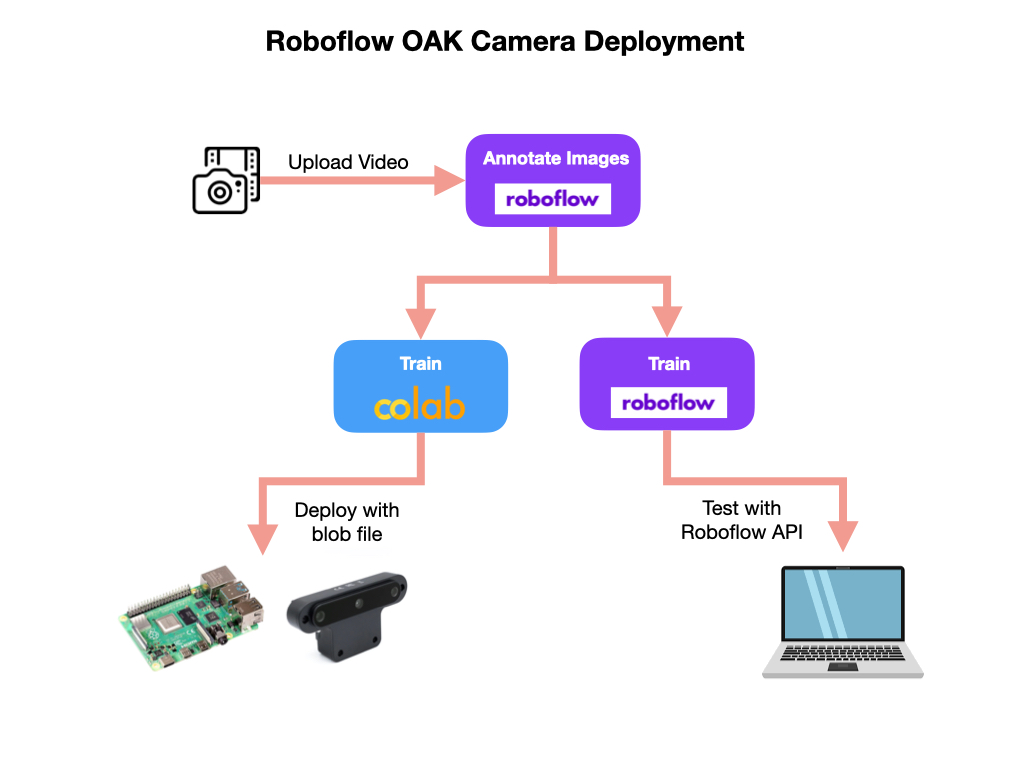
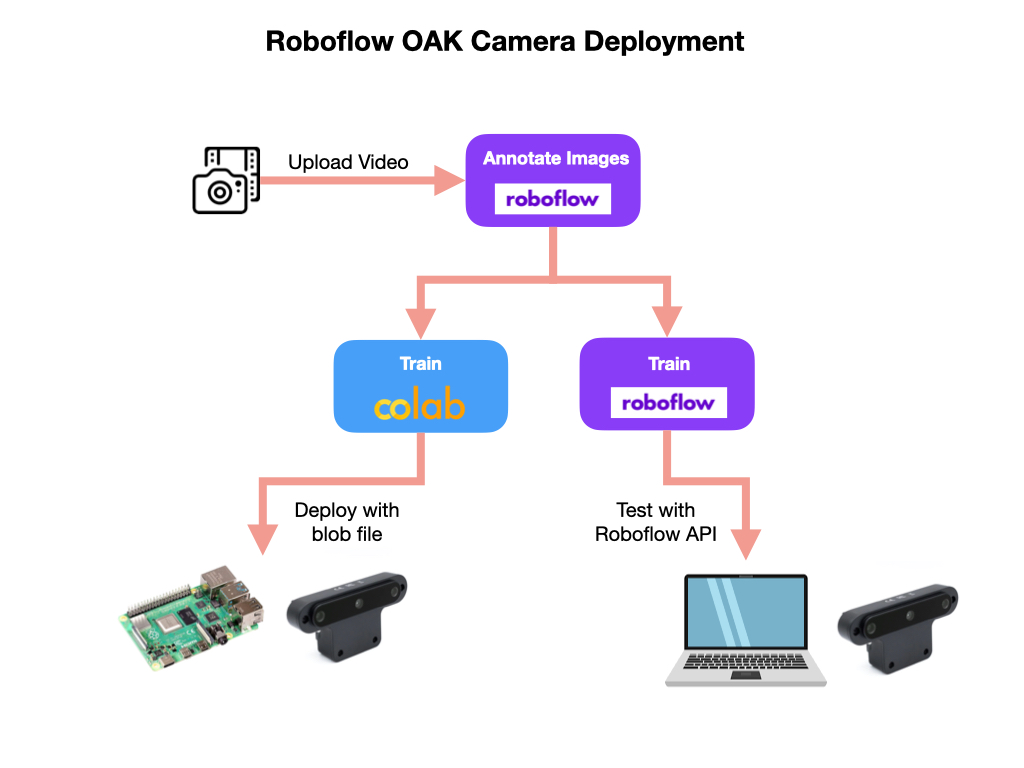
Review

Changed region(s): [[0.5625, 0.5938, 0.9375, 0.9062]]

diff --git a/docs/MachineLearning/MLIndex.md b/docs/MachineLearning/MLIndex.md
@@ -1,23 +1,39 @@
 # Introduction to Machine Learning
-**Machine Learning** is a powerful tool that can accomplish computational tasks that traditional algorithms cannot. In the FIRST Robotics Competition, machine learning can be used to detect game pieces, scoring locations, or even other robots.  For a good overview of Machine Learning see Brendan Fortuner's [Machine Learning Glossary](https://ml-cheatsheet.readthedocs.io/en/latest/nn_concepts.html).  Also see an [Introduction to Machine Learning](https://docs.wpilib.org/en/stable/docs/software/wpilib-tools/axon/machine-learning.html) in the FRC Documentation. 
+**Machine Learning** is a powerful tool that can accomplish computational tasks that traditional algorithms cannot. In the FIRST Robotics Competition, machine learning can be used to detect game pieces, scoring locations, or even other robots.  In order to implement a machine learning model on an FRC robot you don't need to know a lot about the science behind it, but if you'd like to learn more a good starting point is Brendan Fortuner's [Machine Learning Glossary](https://ml-cheatsheet.readthedocs.io/en/latest/nn_concepts.html).  Also see an [Introduction to Machine Learning](https://docs.wpilib.org/en/stable/docs/software/wpilib-tools/axon/machine-learning.html) in the FRC Documentation. 
 
-In order to implement Machine Learning we generally follow a process of collecting images, annotating the images, preprocessing and augmenting the images, training a model, deploying the trained model on the robot, and finally using the trained model to control the robot.  This is an iterative process that can be continued until we have a satisfactory outcome.  
+In order to implement a Machine Learning application we need to setup an efficient workflow. Creating a successful machine learning application is an iterative process that is continued until you have a satisfactory outcome.  This workflow will generally conform to the following set of processes:
+
+- Collect and load images into an application for annotation.  The collection process will normally involve taking a video of the objects that you are interested in tracking.
+
+- Annotating the images, which involves drawing bounding boxes around objects of interest and labelling them.
+
+- Preprocessing and augmenting the images to increase the amount and variability of the training dataset.  
+
+- Training a deep learning model and validating it against a validation dataset. Two commonly used deep learning models for object detection are *MobileNet* and *Yolo*.
+
+- Placing the trained model in an environment where it can be easily tested using a camera stream or set of images.  
+
+- Once we are satisfied with how the model performs it can be deployed to an edge device such as a robot.  The model is converted to format that has a small memory footprint that runs efficiently on the edge device.
+
+- Finally we can use data coming from the trained model to control the robot.  
+
 ![Machine Learning Process](../images/FRCMachineLearning/FRCMachineLearning.001.jpeg)
 
-There are multiple ways to carry out the machine learning process.  FRC has a tool called **Axon** that implements the training, testing, and exporting of the machine learning model.  See an [Introduction to Axon](https://docs.wpilib.org/en/stable/docs/software/wpilib-tools/axon/introduction.html) in the FRC Documentation.  The model is then deployed to a Raspberry Pi using a [Coral USB Accelerator](https://coral.ai/products/accelerator) for real-time processing of the images. 
+There are multiple ways to carry out the machine learning process.  FRC has a tool called [Axon](https://docs.wpilib.org/en/stable/docs/software/wpilib-tools/axon/introduction.html) that implements the training, testing, and exporting of the machine learning model. The model is then deployed to a Raspberry Pi using a [Coral USB Accelerator](https://coral.ai/products/accelerator) or a Jetson for real-time processing of the images. 
 
-An alternative process, and the one that will be documented in the next sections, is to use the [Roboflow](https://roboflow.com) platform to upload video, annotate, preprocess, and augment the images in preparation for training. While we are refining the model it can be also be trained and validated on Roboflow. However, in order to deploy the model for competition it must be trained in [Google Colab](https://colab.research.google.com/?utm_source=scs-index).
+An alternative process, and the one that will be documented in the next sections, is to use the [Roboflow](https://roboflow.com) platform to upload video, annotate, preprocess, and augment the images in preparation for training. Once we have a good dataset of prepared images we'll use it to train a deep learning model.  For our example we'll a [Yolo](https://pjreddie.com/darknet/yolo/) model for training.  
 
-The trained model is deployed to a Raspberry Pi using an OAK-D camera provided by [Luxonis](https://www.luxonis.com).  The OAK-D camera has an onboard Tensor Processing Unit (TPU) that runs the model and processes the images before sending it to the Raspberry Pi.
+We'll be using [Google Colab](https://colab.research.google.com/?utm_source=scs-index) to train the model.  The trained model can then be moved to a PC or your final deployment platform for testing.  At the end of the training process this document details the use of an [OAK-D Stereo Depth Camera](https://shop.luxonis.com/products/1098obcenclosure)  connected to a Raspberry Pi as our deployment platform.  This camera can be connected to your PC while testing.  The OAK-D camera has an onboard Tensor Processing Unit (TPU) that runs the model and processes the images before sending it to the Raspberry Pi. Most of these steps are still applicable if you have a different camera.  The only change will be the final model file format used for deployment.  For instance, if you're using a Raspberry Pi with a *Coral USB Accelerator* you will use a *Tensorflow Lite* model format.
 
 ![Roboflow OAK-D Process](../images/FRCMachineLearning/FRCMachineLearning.002.jpeg)
 
 The deployment process for *Roboflow*, *Google Colab*, with the *OAK-D Camera* and *Raspberry Pi* will be documented in the following sections.
 
 
-- [Preparing Images](MLProcessImages.md)
-- [Training the Model](MLTraining.md)
-- [Deploying the Model](MLDeployment.md)
+- [Preparing the Image Dataset](MLProcessImages.md)
+- [Training and Validating the Model](MLTraining.md)
+- [Testing the Model](MLDesktopTesting.md)
+- [Deploying the Model to the Robot](MLDeployment.md)
 - [Machine Learning Based Control](MLControl.md)
 
 ## References
@@ -31,4 +47,4 @@ The deployment process for *Roboflow*, *Google Colab*, with the *OAK-D Camera* a
 
 - OAK-D Camera [Luxonis](https://www.luxonis.com)
 
-- Zebra Labs [ZebraVision 7.0](https://drive.google.com/file/d/1a6TjJwKlH-76vkAthQSiNZgopLMd_BW_/view)
+<!-- - Zebra Labs [ZebraVision 7.0](https://drive.google.com/file/d/1a6TjJwKlH-76vkAthQSiNZgopLMd_BW_/view) -->

diff --git a/docs/MachineLearning/MLTraining.md b/docs/MachineLearning/MLTraining.md
@@ -1,21 +1,23 @@
-# Training a Model
-Once you have a dataset of the images that you're happy with it can be used to train and validate a model. For the training and validation process you have two options.  You can train and validate in *Roboflow*, or you can export it for training and validation in *Google Colab*.  The process of validating an image with a model is called *Inference*. In order to deploy a model to the competition robot it must be trained using Colab since you'll need to have a model file that can be used offline.
+# Training and Validating the Model
+Once you have a dataset of the images that you're happy with it can be used to train and validate a model. For the training and validation process you have two options.  You can train and validate in *Roboflow* or you can export it for training and validation in *Google Colab*.  In order to deploy a model to the competition robot it must be trained using Colab since you'll need to have a model file that can be used offline.  However, during the testing phase you can also use Roboflow.
 
 ## Training Model in Roboflow
-To train a model in Roboflow watch the [Training](https://www.youtube.com/watch?v=njWwmKLWVyE)  YouTube Video and read the [Train](https://docs.roboflow.com/train) documentation. Once you have a trained model it can be validated directly on the Roboflow site. 
+To train a model in Roboflow watch the [Training](https://www.youtube.com/watch?v=njWwmKLWVyE)  YouTube Video and read the [Train](https://docs.roboflow.com/train) documentation. Once you have a trained model it can be validated directly on the Roboflow site by uploading a test image. It's very important that the test image was never used in the training or validation set.  
 
 To validate, go to the **Versions** section of your Roboflow account, select an image of the objects that you want to run inference on and upload it to the site.  If your model is properly trained you should see bounding boxes around the objects of interest.
 
 ![Test API](../images/FRCMachineLearning/FRCMachineLearning.011.jpeg)
 
+See the next section on [Testing the Model](MLDesktopTesting.md) for more testing options.
+
 ## Training Model in Colab
-This process will show how to train a [Yolo](https://pjreddie.com/darknet/yolo/) model for deployment on an [Luxonis OAK](https://shop.luxonis.com/collections/usb) device.  The training process in Google Colab follows these steps.
+This process will show how to train a [Yolo](https://pjreddie.com/darknet/yolo/) model for deployment on a Raspberry Pi with a connected [Luxonis OAK](https://shop.luxonis.com/collections/usb) camera.   The training process in Google Colab follows these steps.
 
 ![Training](../images/FRCMachineLearning/FRCMachineLearning.010.jpeg)
 
 Make sure that you're familiar with how Colab works. For a quick introduction watch this [Google Colab](https://www.youtube.com/watch?v=RLYoEyIHL6A&ab_channel=CodewithDogaOzgon) YouTube video. 
 
-Use the [Roboflow-YOLOv3-tiny-Darknet-to-OAK.ipynb](https://colab.research.google.com/drive/1Sc6B-clNJZ3OBxCxIoddhLFxIYoJJzRT#scrollTo=JlPEcD7UkE4Q) Colab Notebook to train the model.  Once the Colab notebook loads save a copy of the it in your Google Drive.  When you execute the first cell it will allocate a GPU for you. You should try and complete all of the training steps in a single session.  If you page is inactive for more than an hour the session will disconnect.
+Use the [Roboflow-YOLOv3-tiny-Darknet-to-OAK.ipynb](https://colab.research.google.com/drive/1Sc6B-clNJZ3OBxCxIoddhLFxIYoJJzRT#scrollTo=JlPEcD7UkE4Q) Colab Notebook to train the model.  Once the Colab notebook loads save a copy of the it in your Google Drive.  When you execute the first cell it will allocate a GPU for you. You should try and complete all of the training steps in a single session.  If your page is inactive for more than an hour the session will disconnect and you will have to start over.  Once you have the Colab notebook loaded it will guide you through the following steps to train, validate, and export the model.
 
 ### Setup the Colab Notebook for Training
 
@@ -48,13 +50,13 @@ The weights file for YoloV4-tiny is downloaded in order to generate a custom tra
 ### Train Detector Model
 The next step is to train a custom YOLOv4 object detector.
 
-As the training progresses files with the suffix `.weights` will show up in the `darknet/backup` directory.  As soon as you have a file with a partial name of `_best.weights` you can stop the training process.
+As the training progresses files with the suffix `.weights` will show up in the `darknet/backup` directory.  As soon as you have a file with a name of `<dataset>_best.weights` you can stop the training process.
 
 ### Run Inference to Test the Model
-This step will load the YOLOv4 trained weights and make inference on test images.  
+The process of validating an image with a model is called *Inference*. This step will load the YOLOv4 trained weights and do inference on the validation image set.  
 
 ### Convert to OpenVino Blob File
-When you are satisfied with the model's testing results you can convert it to a file format that runs on the OAK-D camera.  Save and download the `.weights` file that was created in *Train Detector Model* step.  This file can be converted to other formats suitable for deployment.
+When you are satisfied with the model's testing results you can convert it to a file format that runs on the OAK-D camera. This model file format can be moved to a PC for further testing or directly to the Raspberry Pi for deployment. A small microprocessor such as a Raspberry, Jetson Nano, or cell phone is referred to as an *edge* device. In order to deploy to an edge device we must use a model file that has a small memory footprint that can be run efficiently on a device that has limited storage and compute capacity.  Save and download the `.weights` file that was created in *Train Detector Model* step.  This file can be converted to other formats suitable for deployment.
 
 Before creating the *blob* file you need to convert the `.weights` file to a `.pb`.  `pb` stands for *protobuf*. In TensorFlow, the protbuf file contains the graph definition as well as the weights of the model. This step requires the installation of Tensorflow into Colab.
 

diff --git a/docs/MachineLearning/MLDesktopTesting.md b/docs/MachineLearning/MLDesktopTesting.md
@@ -1,0 +1,49 @@
+## Testing the Model
+ Before deploying the model to the robot it can be useful to test it on a laptop by connecting the OAK camera to it.  On a laptop you can prepare, train, and test on the model all on a single device, which makes the workflow more efficient.  You can also carry it around the target environment such a game field or your school hallway to test if it detects the objects of interest. All or the while you still have an internet connection for researching any issues that you may encounter. You can of course also test on the Raspberry Pi or Jetson Nano.  This is documented in the following section [Deploying the Model to the Robot](MLDeployment.md).  
+
+### Laptop Install
+To install the *Luxonis OAK* software on your PC operating system follow the [Installation](https://docs.luxonis.com/projects/api/en/latest/install/#) instructions on the Luxonis site.  Once the install is done install the depthai python package.  Starting at your desired install path, such as `~/Documents`:
+
+        cd <install_path>
+        git clone https://github.com/luxonis/depthai-python.git
+        cd depthai-python
+
+It's recommended that you install the dependencies in a virtual environment, so that they don’t interfere with other Python tools/environments on your system.
+
+        virtualenv venv && source venv/bin/activate
+
+Using a virtual environment run the following to install the requirements for this example repository:
+
+        cd examples
+        python3 install_requirements.py
+
+To test the install run the default model:
+
+        cd Yolo
+        python3 tiny_yolo.py
+
+This model detects 80 common objects.  You should see a camera stream pop up on your desktop.  Point it at yourself and it should recognize a `person`.  
+
+### Test your Custom Model 
+The script that that you executed above is specific to the test model that contains the 80 common objects.  Our models will contain different objects so we'll need a more customizable script in order to load and run them. To deploy this script follow these steps:
+
+- Clone the models and python scripts from GitHub:
+
+        cd <install_path>/depthai-python/examples
+        git clone https://github.com/FRC-2928/FRC-OAK-Deployment-Models.git
+
+- Install the python package requirements:
+
+        cd FRC-OAK-Deployment-Models/
+        python3 -m pip install -r requirements.txt        
+
+There is a custom model that is supplied in the *FRC-OAK-Deployment-Models* package that detects the *Rapid-React* balls from the 2022 competition.  To use that model run the following commands:
+
+        python3 spacial_tiny_yolo_tester.py
+
+The python script will first check the directory for a file named `custom.blob`. If it finds that file it will load the associated `custom_config.json` file and run the model.  The above default model is also supplied in the *FRC-OAK-Deployment-Models* directory. If you want to test on the default model then rename the `custom.blob` file to something else.  To test your own model replace the `custom.blob` and `custom_config.json` files with your own files.
+
+### Roboflow Deployment 
+If you'd like to test your model on a PC prior to deploying it to the Raspberry Pi you can install the Roboflow Inference docker image. Instructions for this can be found on the [Luxonis OAK](https://docs.roboflow.com/inference/luxonis-oak) documentation page. This can only run on a Linux PC and requires that you have [Docker](https://docs.docker.com) installed.
+
+It's useful to create a directory to hold docker files such as `build` and `run` files.  For example `my-containers`.  Then for each docker container image you can create a subdirectory, e.g. `roboflow`.   

diff --git a/docs/MachineLearning/MLProcessImages.md b/docs/MachineLearning/MLProcessImages.md
@@ -1,8 +1,8 @@
 # Preparing Images
-Before a *Neural Network Model* can be trained we need a lot of prepared images of the objects that you want to detect.  Preparing images involves:
+Before a *Neural Network Model* can be trained we need a lot of prepared images of the objects that we want to detect.  Preparing images involves:
 - **Annotating**, which involves drawing bounding boxes around objects of interest. 
-- **Preprocessing**. 
-- **Augmenting**, which increases the number of image samples. 
+- **Preprocessing**, where the images get oriented and resized. 
+- **Augmenting**, which increases the number and variablity of image samples. 
 - **Versioning**, so as you can keep multiple versioned copies of your prepared image datasets.
 
 Finally, the images must be exported in preparation for training the neural network model.
@@ -15,7 +15,7 @@ The best way to get multiple images is to take a video of the objects.  In our c
 Once you have the video upload it to the Roboflow Website.  You will need to create an account, which you can do by using your GitHub account login.  Watch this Roboflow [Image Upload](https://www.youtube.com/watch?v=ZspfrPd4IKo) YouTube Video for how to do this.  Also read about [Adding Data](https://docs.roboflow.com/adding-data) in the Roboflow documentation.
 
 ## Annotating Images
-Once you have the images uploaded they need to be annotated.  This involves drawing bounding boxes around objects of interest.  In our case, we will draw a bounding box around the game pieces.  There may be one or more game pieces in a single image.  Once the bounding box is drawn is has to have a label assigned.  
+Once you have the images uploaded they need to be annotated.  This involves drawing bounding boxes around objects of interest.  In our case, we will draw a bounding box around the game pieces.  There may be one or more game pieces in a single image.  Once the bounding box is drawn is has to have a label assigned.  For the FIRST 2022 competition you might only have two labels, e.g. *blueball, redball*. 
 
 ![Annotating Images](../images/FRCMachineLearning/FRCMachineLearning.004.jpeg)
 
@@ -28,7 +28,7 @@ After this is done we can create a version of the dataset in preparation for tra
 
 ![Generating Dataset](../images/FRCMachineLearning/FRCMachineLearning.005.jpeg)
 
-When you satisfied with the number of annotated images and have created a dataset version it can be *Exported* for training.  This process is shown in the training section.
+When you satisfied with the number of annotated images and have created a dataset version it can be *Exported* for training.  This process is shown in the following *Training and Validation* section.
 
 ## References
 - Roboflow [Image Upload](https://www.youtube.com/watch?v=ZspfrPd4IKo) - Youtube Video

diff --git a/docs/MachineLearning/MachineLearningNotes.md b/docs/MachineLearning/MachineLearningNotes.md
@@ -4,3 +4,43 @@
 Models can be transferred from the Jetson and trained on Macbook using Pytorch or Tensorflow.  Pytorch does not currently utilize the GPU on the M1 processor.  Comment out any statements that transfer the model to the GPU if using Pytorch.  Training is still a little faster on the M1 Macbook's CPU than on the Jetson's GPU.
 
 You can transfer between notebooks by right click download, and then use the upload button to upload it to the target notebook.
+
+Good resource [ML Overview](https://ml-cheatsheet.readthedocs.io/en/latest/nn_concepts.html)
+
+
+
+MIT Press book **Machine Learning Basics** [Chapter 4](https://www.deeplearningbook.org/contents/ml.html)
+
+James, Witten, Hastie, Tibshirani [An Introduction to Statistics Learning](https://www.statlearning.com)
+
+
+
+## Neural Network Architectures 
+
+[Neural Network Zoo](https://www.asimovinstitute.org/neural-network-zoo/) - Asimov Institute
+
+## Activation Functions for Deep Learning
+[Activation functions for deep learning](https://dwaithe.github.io/blog_20170508.html) - Dominic Waithe
+
+## Back Propogation
+Neural Networks and Deep Learning book [Chapter 2](http://neuralnetworksanddeeplearning.com/chap2.html)
+
+[Understanding the BackPropogation Algorithm](https://towardsdatascience.com/understanding-backpropagation-algorithm-7bb3aa2f95fd) - Simeon Kostadinov
+
+
+## References
+- FRC Documentation - [Axon](https://docs.wpilib.org/en/stable/docs/software/wpilib-tools/axon/introduction.html)
+
+- Jeremy Howard, Sylvain Gugger - [Practical Deep Learning for Coders](https://course.fast.ai/)
+
+- Deep Learning - [Video Playlist](https://www.youtube.com/playlist?list=PLZbbT5o_s2xq7LwI2y8_QtvuXZedL6tQU) - deeplizard
+
+- Neural Networks and Deep Learning - [Free Online Book](http://neuralnetworksanddeeplearning.com/index.html)
+
+- An MIT Press book [Deep Learning](https://www.deeplearningbook.org/)
+
+- James, Witten, Hastie, Tibshirani [An Introduction to Statistics Learning](https://www.statlearning.com)
+
+- An Introduction to Statistics Learning [YouTube Playlist](https://www.youtube.com/playlist?list=PLOg0ngHtcqbPTlZzRHA2ocQZqB1D_qZ5V)
+
+- [ML Overview](https://ml-cheatsheet.readthedocs.io/en/latest/nn_concepts.html)

diff --git a/docs/MachineLearning/MLDeployment.md b/docs/MachineLearning/MLDeployment.md
@@ -100,6 +100,14 @@ This script connects to the OAK-D camera and streams images to the inference mod
 
 The [python inference script](https://github.com/FRC-2928/FRC-OAK-Deployment-Models/blob/main/spacial_tiny_yolo_wpi.py) can be found on FRC-2928 GitHub account. 
 
+## Desktop Deployment
+
+In order to make the training and validation workflow more efficient it's useful to have a desktop enviroment setup into which you can plug the OAK-D camera.  Here is a list of options that you can employ for that purpose.
+
+[Desktop Deployment Options](MLDesktopDeployment.md)
+
+   
+
 ## References
 - Luxonis [Depthai](https://docs.luxonis.com/en/latest/) software documentation
 - Roboflow [Deployment](https://www.youtube.com/watch?v=f2d5YksgQsU) - Youtube Video
